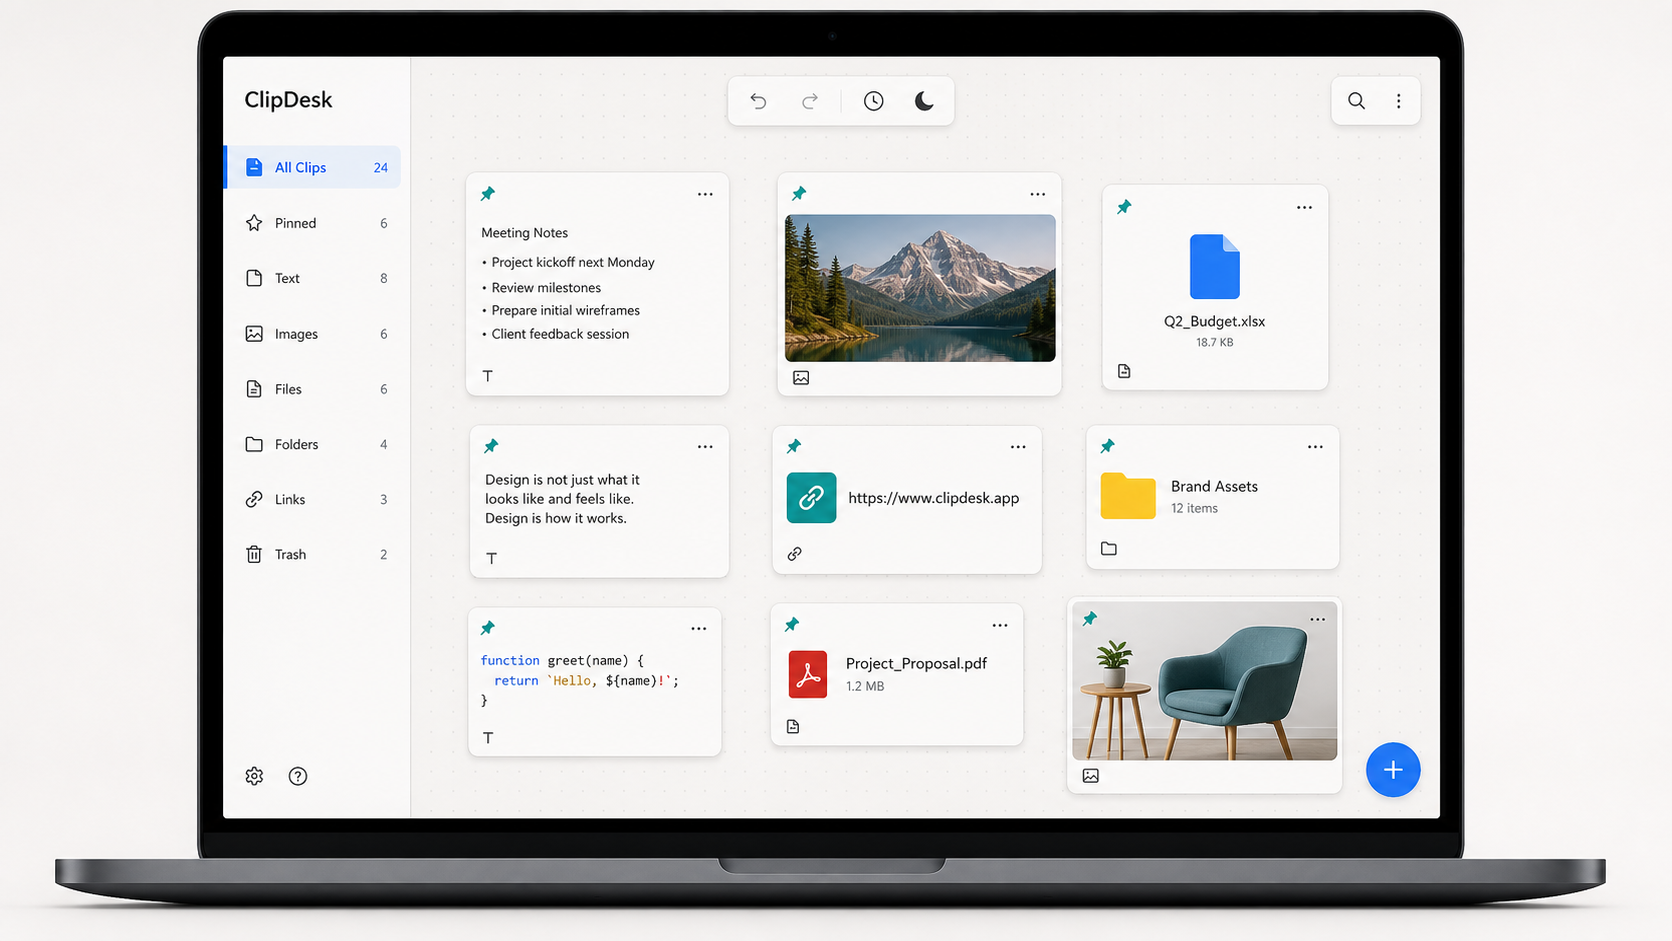
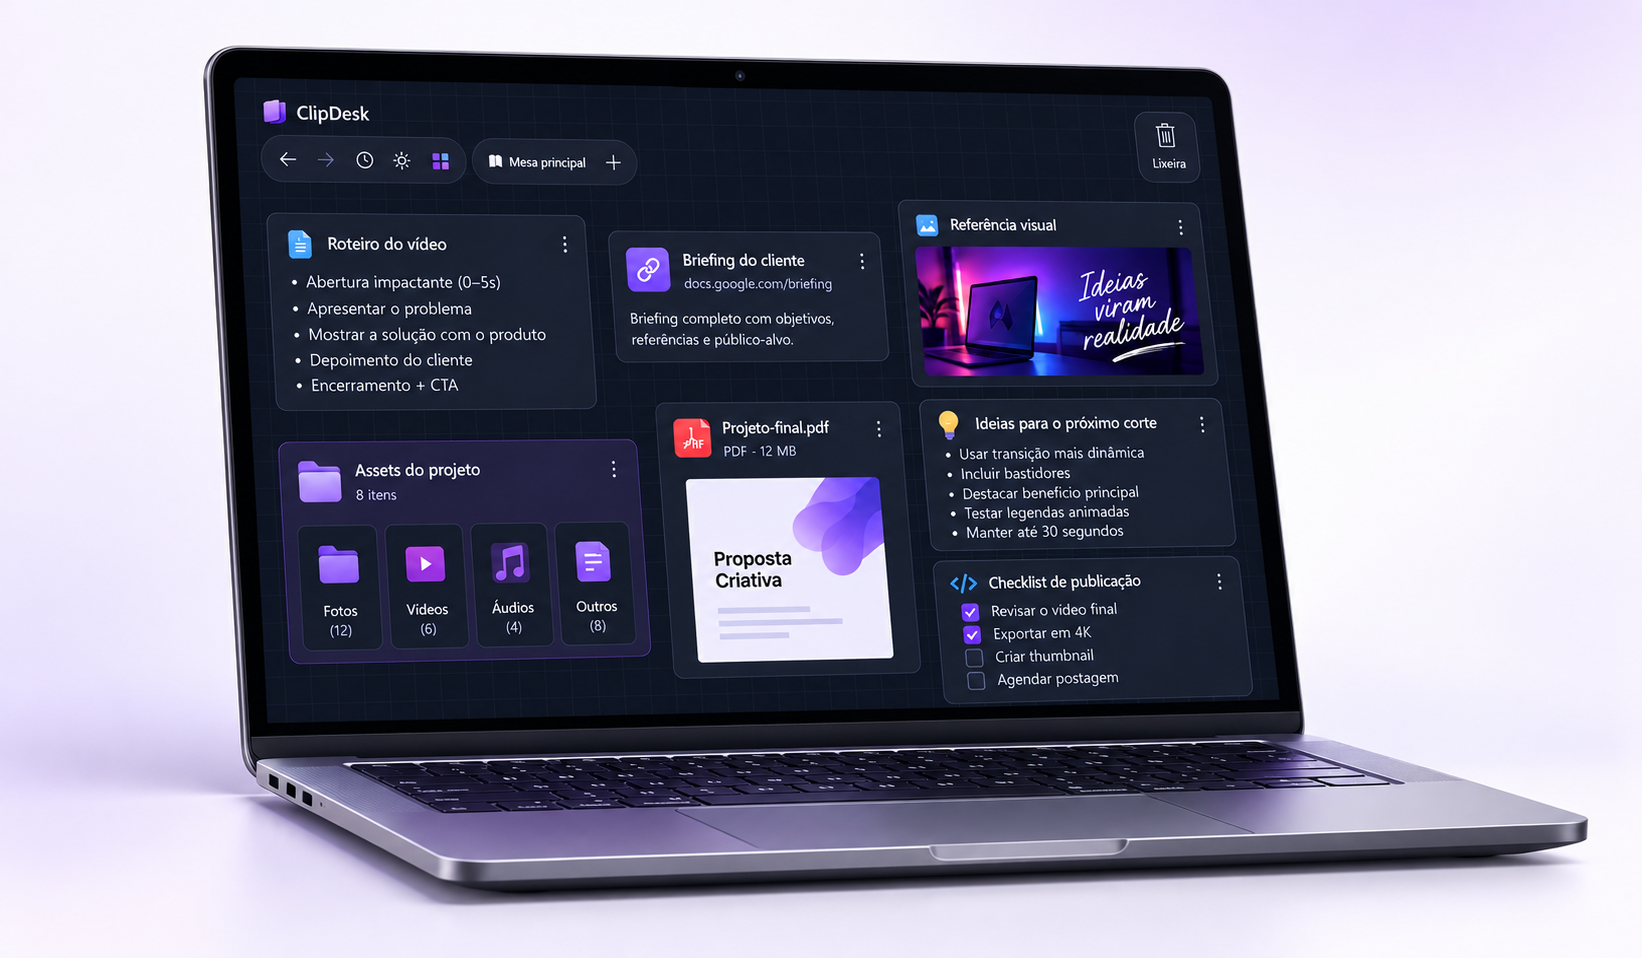
Atualiza hero com render do ClipDesk

diff --git a/landing/index.html b/landing/index.html
@@ -98,19 +98,9 @@
       .hero-proof { display: flex; flex-wrap: wrap; gap: 9px; margin-top: 20px; }
       .hero-proof span { padding: 8px 11px; border: 1px solid rgba(113, 70, 235, 0.18); border-radius: 999px; color: var(--violet-dark); background: rgba(255, 255, 255, 0.68); font-size: 13px; font-weight: 750; }
 
-      .product-stage { position: relative; padding: 18px; border: 1px solid rgba(113, 70, 235, 0.2); border-radius: 30px; background: linear-gradient(145deg, #31204f, #170f25); box-shadow: var(--shadow); transform: rotate(0.6deg); }
-      .product-stage::after { position: absolute; inset: auto 11% -36px; height: 70px; border-radius: 50%; background: rgba(80, 43, 169, 0.2); filter: blur(28px); content: ""; z-index: -1; }
-      .window-bar { display: flex; height: 34px; align-items: center; gap: 7px; padding: 0 4px 12px; }
-      .window-dot { width: 9px; height: 9px; border-radius: 50%; background: rgba(255, 255, 255, 0.24); }
-      .product-stage img { display: block; width: 100%; border-radius: 16px; }
-      .float-card { position: absolute; display: grid; grid-template-columns: 38px 1fr; align-items: center; gap: 11px; min-width: 204px; padding: 13px; border: 1px solid rgba(255, 255, 255, 0.72); border-radius: 16px; background: rgba(255, 255, 255, 0.92); box-shadow: 0 18px 45px rgba(23, 19, 31, 0.18); backdrop-filter: blur(16px); }
-      .float-card strong, .float-card small { display: block; }
-      .float-card strong { margin-bottom: 3px; font-size: 14px; }
-      .float-card small { color: var(--ink-soft); font-size: 12px; }
-      .float-card.top { top: -28px; right: -24px; }
-      .float-card.bottom { bottom: -34px; left: -28px; }
-      .float-icon { display: grid; width: 38px; height: 38px; place-items: center; border-radius: 11px; color: #fff; background: linear-gradient(145deg, var(--violet-light), var(--violet-dark)); }
-      .float-icon svg { width: 20px; height: 20px; }
+      .product-stage { position: relative; }
+      .product-stage::after { position: absolute; inset: auto 12% -18px; height: 48px; border-radius: 50%; background: rgba(80, 43, 169, 0.17); filter: blur(24px); content: ""; z-index: -1; }
+      .product-stage img { display: block; width: 100%; border-radius: 22px; filter: drop-shadow(0 26px 32px rgba(23, 19, 31, 0.14)); }
 
       .section { padding: 104px 0; }
       .section-soft { border-block: 1px solid var(--line); background: var(--surface-soft); }
@@ -186,10 +176,7 @@
         h1 { font-size: clamp(49px, 15vw, 68px); }
         .hero-copy { font-size: 17px; }
         .hero-actions .button { width: 100%; }
-        .product-stage { padding: 10px; border-radius: 22px; transform: none; }
-        .product-stage img { border-radius: 12px; }
-        .float-card { position: static; min-width: 0; margin-top: 10px; }
-        .float-card.top { display: none; }
+        .product-stage img { border-radius: 16px; }
         .section { padding: 78px 0; }
         .section-heading { gap: 20px; margin-bottom: 34px; }
         .use-grid { grid-template-columns: 1fr; }
@@ -244,16 +231,7 @@
           </div>
 
           <div class="product-stage" aria-label="Prévia visual do ClipDesk">
-            <div class="window-bar" aria-hidden="true"><span class="window-dot"></span><span class="window-dot"></span><span class="window-dot"></span></div>
             <img src="assets/clipdesk-hero.png" alt="Mesa visual do ClipDesk com cards de texto, imagem, link, arquivo e pasta" />
-            <div class="float-card top">
-              <span class="float-icon" aria-hidden="true"><svg viewBox="0 0 24 24" fill="none"><path d="M4 6h16v12H4zM8 10h8M8 14h5" stroke="currentColor" stroke-width="2" stroke-linecap="round" /></svg></span>
-              <span><strong>Histórico à mão</strong><small>Busque e recupere cópias</small></span>
-            </div>
-            <div class="float-card bottom">
-              <span class="float-icon" aria-hidden="true"><svg viewBox="0 0 24 24" fill="none"><path d="M5 6h5l2 2h7v10H5z" stroke="currentColor" stroke-width="2" stroke-linejoin="round" /></svg></span>
-              <span><strong>Mesas separadas</strong><small>Um espaço para cada contexto</small></span>
-            </div>
           </div>
         </section>
       </div>
